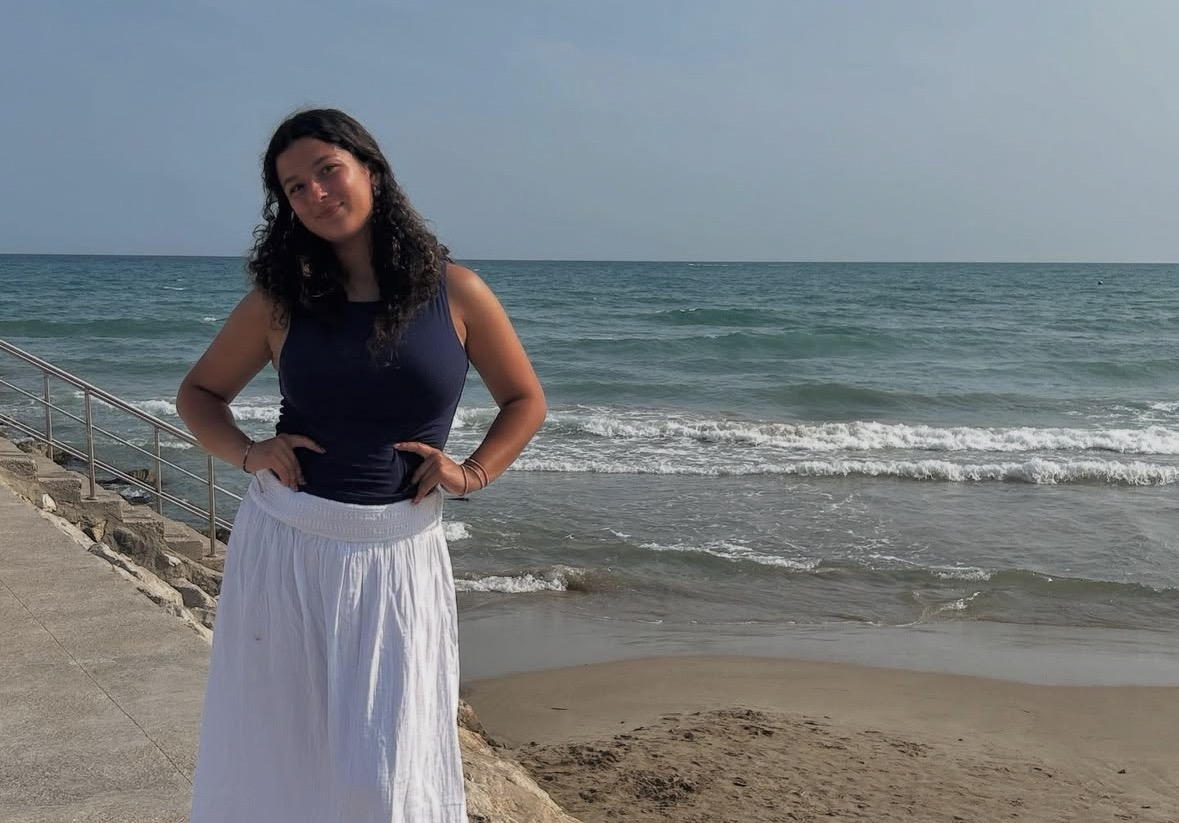
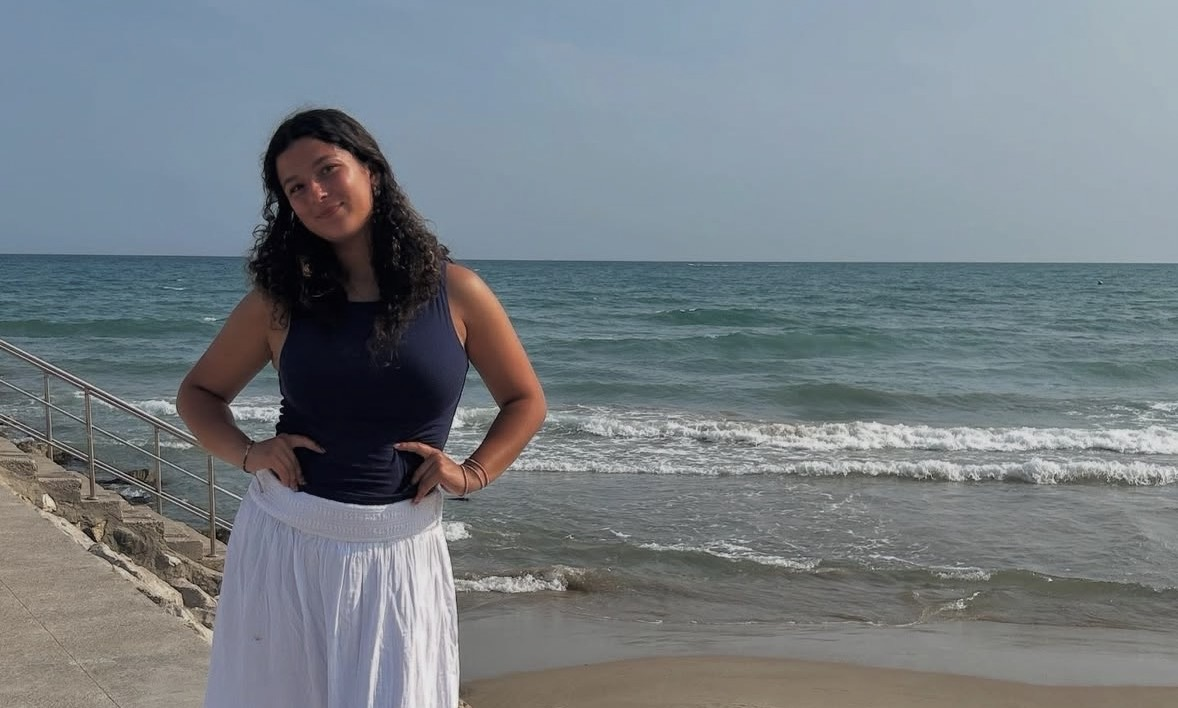
Added photos to each person's page

diff --git a/midterm-site/Helena.html b/midterm-site/Helena.html
@@ -40,7 +40,7 @@
         <!-- Friend Photo -->
         <div class="friend-photo-frame">
             <img
-                src="https://images.unsplash.com/photo-1529156069898-49953e39b3ac?auto=format&fit=crop&w=1200&q=85"
+                src="Photos/helena-image.JPG"
                 alt="Friends spending time together"
                 class="friend-photo"
             >

diff --git a/midterm-site/Allie.html b/midterm-site/Allie.html
@@ -28,7 +28,7 @@
 
         <div class="friend-photo-frame">
             <img
-                src="https://images.unsplash.com/photo-1529156069898-49953e39b3ac?auto=format&fit=crop&w=1200&q=85"
+                src="Photos/allie-image.JPG"
                 alt="Friends spending time together"
                 class="friend-photo">
         </div>

diff --git a/midterm-site/Sam.html b/midterm-site/Sam.html
@@ -28,7 +28,7 @@
 
         <div class="friend-photo-frame">
             <img
-                src="https://images.unsplash.com/photo-1529156069898-49953e39b3ac?auto=format&fit=crop&w=1200&q=85"
+                src="Photos/sam-image.JPG"
                 alt="Friends making memories together"
                 class="friend-photo">
         </div>

diff --git a/midterm-site/Kate.html b/midterm-site/Kate.html
@@ -28,7 +28,7 @@
 
         <div class="friend-photo-frame">
             <img
-                src="https://images.unsplash.com/photo-1529156069898-49953e39b3ac?auto=format&fit=crop&w=1200&q=85"
+                src="Photos/kate-image.JPG"
                 alt="Friends enjoying time together"
                 class="friend-photo">
         </div>

diff --git a/midterm-site/Amy.html b/midterm-site/Amy.html
@@ -28,7 +28,7 @@
 
         <div class="friend-photo-frame">
             <img
-                src="https://images.unsplash.com/photo-1529156069898-49953e39b3ac?auto=format&fit=crop&w=1200&q=85"
+                src="Photos/amy-image.JPG"
                 alt="Friends spending time together"
                 class="friend-photo">
         </div>

diff --git a/midterm-site/Marissa.html b/midterm-site/Marissa.html
@@ -28,7 +28,7 @@
 
         <div class="friend-photo-frame">
             <img
-                src="https://images.unsplash.com/photo-1529156069898-49953e39b3ac?auto=format&fit=crop&w=1200&q=85"
+                src="Photos/marissa-image.JPG"
                 alt="Friends making memories"
                 class="friend-photo">
         </div>
